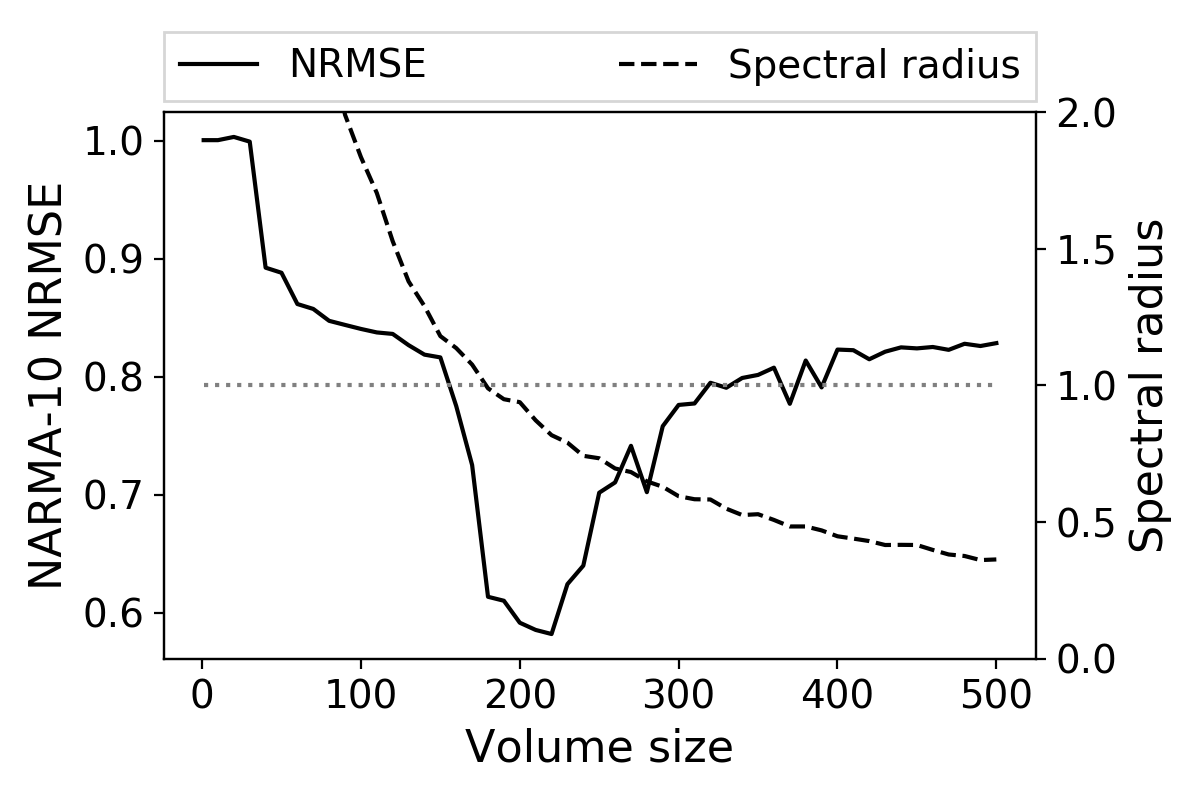
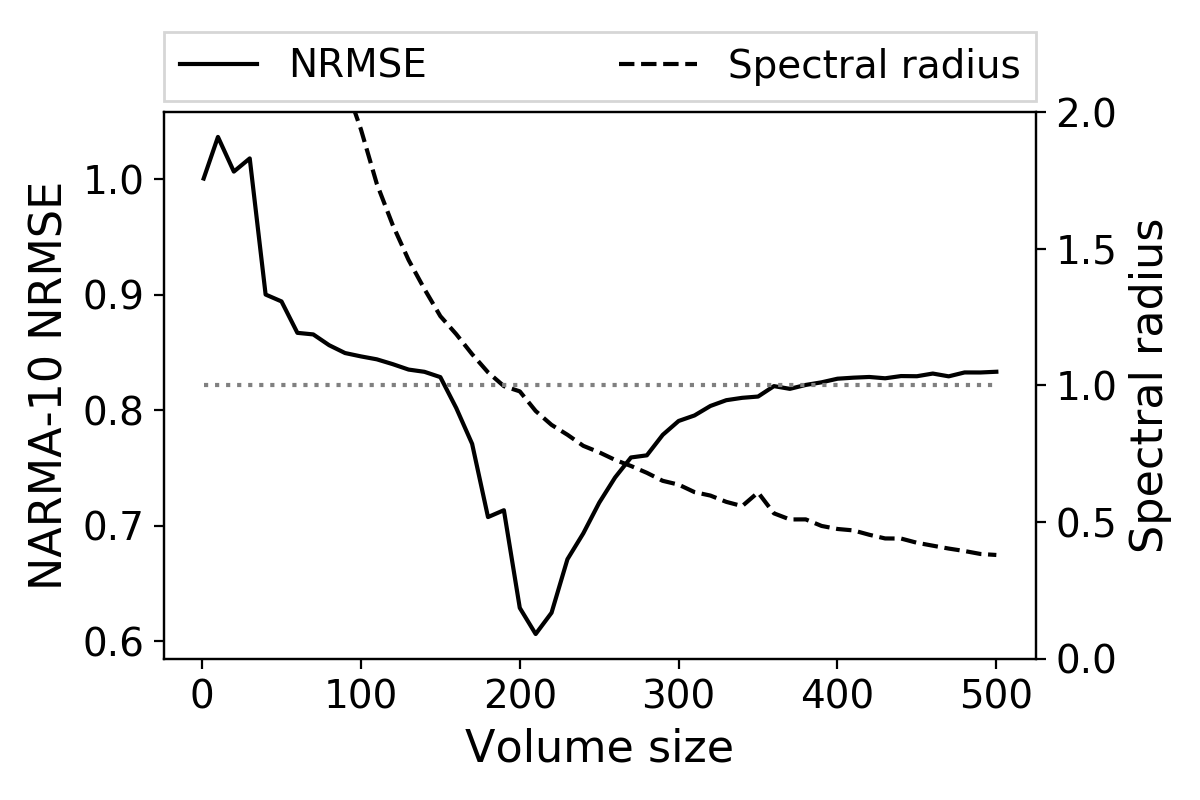
Move appendix to online:

diff --git a/py/notebook.py b/py/notebook.py
@@ -5,6 +5,7 @@ import pickle
 import torch
 import networkx as nx
 from collections import OrderedDict
+from tabulate import tabulate
 
 import dataset as ds
 from ESN import ESN, Distribution, from_square_G, create_delay_line
@@ -202,18 +203,23 @@ def rgg_volume_size():
     df.to_pickle('experiments/rgg_volume_size.pkl')
 
 
-def plot_rgg_volume_size():
+def plot_rgg_volume_size(std=False):
     df = load_experiment('experiments/rgg_volume_size.pkl')
 
     df['dist_function'] = df['dist_function'].apply(
         lambda f: f.__name__ if not isinstance(f, str) else f
     )
 
-    inv_df = df.loc[df['dist_function'] == inv.__name__]
-    inv_squared_df = df.loc[df['dist_function'] == inv_squared.__name__]
+    org_inv_df = df.loc[df['dist_function'] == inv.__name__]
+    org_inv_squared_df = df.loc[df['dist_function'] == inv_squared.__name__]
 
-    inv_df = inv_df.groupby(['dim_size']).min().reset_index()
-    inv_squared_df = inv_squared_df.groupby(['dim_size']).min().reset_index()
+    inv_df = org_inv_df.groupby(['dim_size']).mean().reset_index()
+    inv_squared_df = org_inv_squared_df.groupby(['dim_size']).min().reset_index()
+
+    if std:
+        agg = { 'esn_nrmse': ['mean', 'std'] }
+        std_inv_df = org_inv_df.groupby(['dim_size']).agg(agg).reset_index()
+        print(tabulate(std_inv_df, headers=['l', 'NRMSE mean', 'NRMSE std'], showindex=False))
 
     file_names = ['RGG-volume-size-inv.png', 'RGG-volume-size-inv-squared.png']
     for i, df in enumerate([inv_df, inv_squared_df]):
@@ -260,7 +266,7 @@ def rgg_dist_performance():
     df.to_pickle('experiments/rgg_dist_performance.pkl')
 
 
-def plot_rgg_dist_performance(agg='mean', file_name=None):
+def plot_rgg_dist_performance(agg='mean', file_name=None, std=False):
     df = load_experiment('experiments/rgg_dist_performance.pkl')
     esn = load_experiment('experiments/esn_general_performance.pkl')
     esn['hidden_nodes'] = esn[esn['hidden_nodes'] <= 180]['hidden_nodes']
@@ -272,6 +278,17 @@ def plot_rgg_dist_performance(agg='mean', file_name=None):
     inv_perf = df.loc[df['dist_function'] == inv.__name__]
     inv_squared_perf = df.loc[df['dist_function'] == inv_squared.__name__]
     inv_cubed_perf = df.loc[df['dist_function'] == inv_cubed.__name__]
+
+    if std:
+        std_agg = { 'esn_nrmse': ['mean', 'std'] }
+        std_inv_perf = inv_perf.groupby(['hidden_nodes']).agg(std_agg).reset_index()
+        std_inv_squared_perf = inv_squared_perf.groupby(['hidden_nodes']).agg(std_agg).reset_index()
+        std_inv_cubed_perf = inv_cubed_perf.groupby(['hidden_nodes']).agg(std_agg).reset_index()
+        std_esn_perf = esn.groupby(['hidden_nodes']).agg(std_agg).reset_index()
+        print(tabulate(std_inv_perf, headers=['Hidden nodes', 'NRMSE mean', 'NRMSE std'], showindex=False))
+        print(tabulate(std_inv_squared_perf, headers=['Hidden nodes', 'NRMSE mean', 'NRMSE std'], showindex=False))
+        print(tabulate(std_inv_cubed_perf, headers=['Hidden nodes', 'NRMSE mean', 'NRMSE std'], showindex=False))
+        print(tabulate(std_esn_perf, headers=['Hidden nodes', 'NRMSE mean', 'NRMSE std'], showindex=False))
 
     labels = ['ESN', '1/d', '1/d^2', '1/d^3']
     linestyles = ['dashdot', 'dotted', 'dashed', 'solid']

diff --git a/master/sections/3-methodology.tex b/master/sections/3-methodology.tex
@@ -28,13 +28,12 @@ $\mathbf{W}^{out}$ was adapted with ridge regression, using single value
 decomposition for computational routines. This was found to lead to the most
 stable and precise results.
 
-% (TODO): Perhaps re-run everything with exactly 20 runs. We need the
-% std. dev. anyway for tables in appendix.
 For all experiment runs, the first 200 states of each run were discarded to
 provide a washout of the initial reservoir state. Reported performances are the
 mean across 20 randomizations of each model representative. This sample size was
 found to be appropriate to pinpoint definite trends in the results. Standard
-deviations for all experiments are thus provided in the appendix.
+deviations for all experiments are available
+online\footnote{\textcolor{red}{deadlink}}.
 
 The Python software library implementation is available online, including a
 Jupyter Notebook for reproducing each

diff --git a/master/sections/4-experiment-a.tex b/master/sections/4-experiment-a.tex
@@ -102,7 +102,11 @@ the graph is embedded.
   \caption{
     Spectral radius and performance of generated random geometric graphs of size
 $N = 100$, as a function of the size of the underlying volume. Illustrated is
-node coupling using two different distance functions: $1/d$ (a) and $1/d^2$ (b).
+node coupling using two different distance functions: $1/d$ (a) and $1/d^2$
+(b). For the $1/d^2$ (b) distance function the minimum NRMSE value over 20 runs
+is used instead of the mean, as it exhibits a higher variability, explained
+further in Chapter
+\ref{sec:dist-func}.
   }
   \label{fig:size-graph-volume}
 \end{figure}

diff --git a/master/thesis.tex b/master/thesis.tex
@@ -30,9 +30,9 @@
 \bibliographystyle{ieeetr}
 \bibliography{ref}
 
-\appendix
-\setcounter{secnumdepth}{-1}
-\input{sections/a-appendix}
+% \appendix
+% \setcounter{secnumdepth}{-1}
+% \input{sections/a-appendix}
 
 \end{document}
 

diff --git a/py/appendix.md b/py/appendix.md
@@ -1,0 +1,197 @@
+# Experiment standard deviations
+
+## Figure 4.2a
+
+  l    NRMSE mean    NRMSE std
+---  ------------  -----------
+  1      1.00047    0
+ 10      1.03647    0.113848
+ 20      1.00646    0.00237215
+ 30      1.01787    0.010872
+ 40      0.90002    0.00539137
+ 50      0.894065   0.00403124
+ 60      0.866868   0.00353268
+ 70      0.8655     0.00606221
+ 80      0.856158   0.0059892
+ 90      0.849385   0.00360464
+100      0.846474   0.00408018
+110      0.84394    0.00328169
+120      0.839768   0.0051787
+130      0.835065   0.00500718
+140      0.833127   0.00868222
+150      0.828526   0.00696021
+160      0.801786   0.0203328
+170      0.770767   0.0297095
+180      0.707362   0.0730524
+190      0.713308   0.0914283
+200      0.628744   0.0426474
+210      0.606112   0.00970114
+220      0.624542   0.0306639
+230      0.670855   0.0239296
+240      0.693312   0.0290754
+250      0.719803   0.0134829
+260      0.741656   0.0143874
+270      0.758977   0.0118078
+280      0.76082    0.023653
+290      0.778569   0.0123491
+300      0.79057    0.0101597
+310      0.795357   0.0113476
+320      0.803555   0.00448904
+330      0.808561   0.00992409
+340      0.810606   0.00702924
+350      0.81171    0.00735155
+360      0.820742   0.00676661
+370      0.818382   0.0152651
+380      0.821757   0.00517648
+390      0.824043   0.0127569
+400      0.827156   0.00424015
+410      0.828057   0.00496149
+420      0.828659   0.00561423
+430      0.827529   0.00336454
+440      0.829446   0.00459104
+450      0.8293     0.00323444
+460      0.831628   0.00374279
+470      0.829206   0.00375451
+480      0.832583   0.00298063
+490      0.832549   0.00376664
+500      0.833182   0.00609264
+
+## Figure 4.3a
+
+### 1/d
+
+  Hidden nodes    NRMSE mean    NRMSE std
+--------------  ------------  -----------
+            20      0.671157    0.0230706
+            30      0.646389    0.0214406
+            40      0.624257    0.0305911
+            50      0.607534    0.0148548
+            60      0.6         0.0185865
+            70      0.603131    0.0196248
+            80      0.610808    0.0556555
+            90      0.602744    0.013725
+           100      0.602149    0.0214112
+           110      0.595808    0.0192315
+           120      0.596318    0.0144194
+           130      0.596969    0.0150499
+           140      0.597797    0.0136617
+           150      0.604492    0.0201159
+           160      0.603603    0.0115912
+           170      0.599954    0.0120815
+           180      0.605817    0.0131494
+
+### 1/d^2
+
+  Hidden nodes    NRMSE mean    NRMSE std
+--------------  ------------  -----------
+            20      0.646774    0.0676599
+            30      0.639547    0.0442155
+            40      0.598222    0.0624007
+            50      0.608623    0.058812
+            60      0.599271    0.0766307
+            70      0.564585    0.058208
+            80      0.57046     0.0554744
+            90      0.554802    0.0754045
+           100      0.56595     0.0805976
+           110      0.54126     0.0693835
+           120      0.536186    0.0628838
+           130      0.519448    0.0756705
+           140      0.547597    0.0754784
+           150      0.589781    0.0894505
+           160      0.54122     0.102782
+           170      0.537564    0.082192
+           180      0.53817     0.0857813
+
+### 1/d^3
+
+Hidden nodes    NRMSE mean    NRMSE std
+--------------  ------------  -----------
+            20      0.701683    0.0449818
+            30      0.67699     0.0802186
+            40      0.632383    0.0627061
+            50      0.642926    0.070535
+            60      0.669535    0.0778343
+            70      0.616779    0.0847571
+            80      0.651001    0.0840949
+            90      0.62469     0.0818522
+           100      0.627386    0.081138
+           110      0.649667    0.0984959
+           120      0.667164    0.0976033
+           130      0.665958    0.0966502
+           140      0.631907    0.100852
+           150      0.620806    0.105839
+           160      0.659069    0.0908363
+           170      0.634457    0.106281
+           180      0.636537    0.112403
+
+### ESN
+
+Hidden nodes    NRMSE mean    NRMSE std
+--------------  ------------  -----------
+            20      0.688943    0.0792824
+            30      0.527018    0.0944197
+            40      0.456094    0.0540679
+            50      0.422292    0.0464316
+            60      0.408328    0.0297659
+            70      0.376496    0.0285228
+            80      0.370853    0.0340643
+            90      0.352572    0.023154
+           100      0.325687    0.0306486
+           110      0.320815    0.0191986
+           120      0.321538    0.0213816
+           130      0.302594    0.0263583
+           140      0.300477    0.0291815
+           150      0.27916     0.0212449
+           160      0.276941    0.0225964
+           170      0.270505    0.0340414
+           180      0.259255    0.0267144
+
+## Figure 4.4a
+
+### 1/d
+
+### 1/d^2
+
+## Figure 4.4b
+
+### 1/d
+
+### 1/d^2
+
+## Figure 4.5a
+
+## Figure 4.5b
+
+## Figure 4.6
+
+### Undirected
+
+### Directed
+
+### ESN
+
+## Figure 5.2
+
+## Figure 5.3a
+
+## Figure 5.3b
+
+## Figure 5.3c
+
+## Figure 5.5a
+
+## Figure 5.5b
+
+## Figure 5.5c
+
+## Figure 5.6
+
+## Figure 5.7
+
+## Figure 5.9a
+
+## Figure 5.9b
+
+## Figure 5.10
+
+
